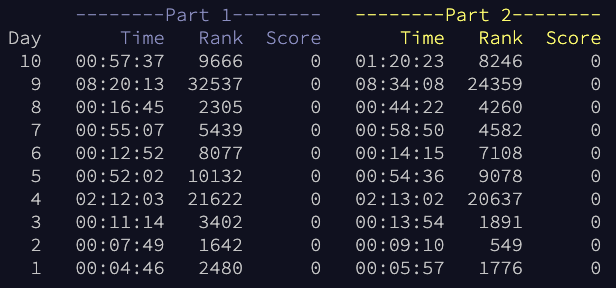
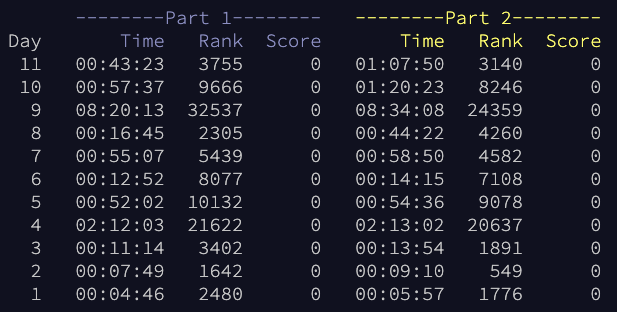
day 11

diff --git a/day11/part2.py b/day11/part2.py
@@ -1,0 +1,131 @@
+from __future__ import annotations
+
+import argparse
+import os.path
+
+import pytest
+
+import support
+import typing
+from functools import partial
+INPUT_TXT = os.path.join(os.path.dirname(__file__), 'input.txt')
+
+# monkeys = [
+#     {
+#         "items": [79, 98],
+#         "op": partial(lambda x: x * 29),
+#         "test": partial(lambda x: 2 if x % 23 == 0 else 3)
+#     },
+#     {
+#         "items": [54, 65, 75, 74],
+#         "op": partial(lambda x: x + 6),
+#         "test": partial(lambda x: 2 if x % 19 == 0 else 0)
+#     },
+#     {
+#         "items": [79, 60, 97],
+#         "op": partial(lambda x: x * x),
+#         "test": partial(lambda x: 1 if x % 13 == 0 else 3)
+#     },
+#     {
+#         "items": [74],
+#         "op": partial(lambda x: x + 3),
+#         "test": partial(lambda x: 0 if x % 17 == 0 else 1)
+#     },
+# ]
+
+import re
+from collections import deque
+def parse_monkey(monkey_string):
+    test_divis = int(re.search(r"[0-9]+", monkey_string[3])[0])
+    true_monkey = int(re.search(r"[0-9]+", monkey_string[4])[0])
+    false_monkey = int(re.search(r"[0-9]+", monkey_string[5])[0])
+    
+    return {
+        "items": [int(itm.strip()) for itm in monkey_string[1].split(':')[1].strip().split(',')],
+        "op": partial(lambda old: eval(monkey_string[2].split('=')[1].strip())),
+        "test": partial(lambda x: true_monkey if not x % test_divis else false_monkey),
+        "true": true_monkey,
+        "false": false_monkey,
+        "divisor": test_divis,
+    }
+import math
+def compute(s: str) -> int:
+    monkeys_unparsed = support.separate_by_newline(s.strip().split('\n'))
+    monkeys_parsed = [parse_monkey(monkey) for monkey in monkeys_unparsed]
+    monkey_touches = [0 for _ in range(len(monkeys_parsed))]
+    big_divisor = math.prod([m['divisor'] for m in monkeys_parsed])
+    # after each monkey inspects an item, but BEFORE it tests your worry, your worry 
+    for round in range(10000):
+        for i, monkey in enumerate(monkeys_parsed):
+            for itm in monkey['items']:
+                # print('inspecting itm', itm)
+                monkey_touches[i] += 1
+                # chg worry level
+                itm = monkey["op"](itm)
+                # print('adjusted worry', itm)
+                # itm = itm // 3
+                # print('divided by 3', itm)
+                # print('sending to:', monkey['test'](itm))
+                itm = itm % big_divisor
+                monkeys_parsed[monkey['test'](itm)]['items'].append(itm)
+            monkey['items'] = list()
+        # if not round % 100:
+            # print(round)
+    return sorted(monkey_touches, reverse=True)[0] * sorted(monkey_touches, reverse=True)[1]
+
+
+INPUT_S = '''\
+Monkey 0:
+  Starting items: 79, 98
+  Operation: new = old * 19
+  Test: divisible by 23
+    If true: throw to monkey 2
+    If false: throw to monkey 3
+
+Monkey 1:
+  Starting items: 54, 65, 75, 74
+  Operation: new = old + 6
+  Test: divisible by 19
+    If true: throw to monkey 2
+    If false: throw to monkey 0
+
+Monkey 2:
+  Starting items: 79, 60, 97
+  Operation: new = old * old
+  Test: divisible by 13
+    If true: throw to monkey 1
+    If false: throw to monkey 3
+
+Monkey 3:
+  Starting items: 74
+  Operation: new = old + 3
+  Test: divisible by 17
+    If true: throw to monkey 0
+    If false: throw to monkey 1
+'''
+EXPECTED = 2713310158
+
+
+@pytest.mark.parametrize(
+    ('input_s', 'expected'),
+    (
+        (INPUT_S, EXPECTED),
+    ),
+)
+def test(input_s: str, expected: int) -> None:
+    assert compute(input_s) == expected
+
+
+def main() -> int:
+    parser = argparse.ArgumentParser()
+    parser.add_argument('data_file', nargs='?', default=INPUT_TXT)
+    args = parser.parse_args()
+
+    with open(args.data_file) as f, support.timing():
+        print(compute(f.read()))
+
+    return 0
+
+
+if __name__ == '__main__':
+    raise SystemExit(main())

diff --git a/day11/part1.py b/day11/part1.py
@@ -1,0 +1,131 @@
+from __future__ import annotations
+
+import argparse
+import os.path
+
+import pytest
+
+import support
+import typing
+from functools import partial
+INPUT_TXT = os.path.join(os.path.dirname(__file__), 'input.txt')
+
+# monkeys = [
+#     {
+#         "items": [79, 98],
+#         "op": partial(lambda x: x * 29),
+#         "test": partial(lambda x: 2 if x % 23 == 0 else 3)
+#     },
+#     {
+#         "items": [54, 65, 75, 74],
+#         "op": partial(lambda x: x + 6),
+#         "test": partial(lambda x: 2 if x % 19 == 0 else 0)
+#     },
+#     {
+#         "items": [79, 60, 97],
+#         "op": partial(lambda x: x * x),
+#         "test": partial(lambda x: 1 if x % 13 == 0 else 3)
+#     },
+#     {
+#         "items": [74],
+#         "op": partial(lambda x: x + 3),
+#         "test": partial(lambda x: 0 if x % 17 == 0 else 1)
+#     },
+# ]
+
+import re
+from collections import deque
+def parse_monkey(monkey_string):
+    test_divis = int(re.search(r"[0-9]+", monkey_string[3])[0])
+    true_monkey = int(re.search(r"[0-9]+", monkey_string[4])[0])
+    false_monkey = int(re.search(r"[0-9]+", monkey_string[5])[0])
+    
+    return {
+        "items": [int(itm.strip()) for itm in monkey_string[1].split(':')[1].strip().split(',')],
+        "op": partial(lambda old: eval(monkey_string[2].split('=')[1].strip())),
+        "test": partial(lambda x: true_monkey if not x % test_divis else false_monkey),
+        "true": true_monkey,
+        "false": false_monkey,
+        "divisor": test_divis,
+    }
+import math
+def compute(s: str) -> int:
+    monkeys_unparsed = support.separate_by_newline(s.strip().split('\n'))
+    monkeys_parsed = [parse_monkey(monkey) for monkey in monkeys_unparsed]
+    monkey_touches = [0 for _ in range(len(monkeys_parsed))]
+    big_divisor = math.prod([m['divisor'] for m in monkeys_parsed])
+    # after each monkey inspects an item, but BEFORE it tests your worry, your worry 
+    for round in range(10000):
+        for i, monkey in enumerate(monkeys_parsed):
+            for itm in monkey['items']:
+                # print('inspecting itm', itm)
+                monkey_touches[i] += 1
+                # chg worry level
+                itm = monkey["op"](itm)
+                # print('adjusted worry', itm)
+                # itm = itm // 3
+                # print('divided by 3', itm)
+                # print('sending to:', monkey['test'](itm))
+                itm = itm % big_divisor
+                monkeys_parsed[monkey['test'](itm)]['items'].append(itm)
+            monkey['items'] = list()
+        if not round % 100:
+            print(round)
+    return sorted(monkey_touches, reverse=True)[0] * sorted(monkey_touches, reverse=True)[1]
+
+
+INPUT_S = '''\
+Monkey 0:
+  Starting items: 79, 98
+  Operation: new = old * 19
+  Test: divisible by 23
+    If true: throw to monkey 2
+    If false: throw to monkey 3
+
+Monkey 1:
+  Starting items: 54, 65, 75, 74
+  Operation: new = old + 6
+  Test: divisible by 19
+    If true: throw to monkey 2
+    If false: throw to monkey 0
+
+Monkey 2:
+  Starting items: 79, 60, 97
+  Operation: new = old * old
+  Test: divisible by 13
+    If true: throw to monkey 1
+    If false: throw to monkey 3
+
+Monkey 3:
+  Starting items: 74
+  Operation: new = old + 3
+  Test: divisible by 17
+    If true: throw to monkey 0
+    If false: throw to monkey 1
+'''
+EXPECTED = 10605
+
+
+@pytest.mark.parametrize(
+    ('input_s', 'expected'),
+    (
+        (INPUT_S, EXPECTED),
+    ),
+)
+def test(input_s: str, expected: int) -> None:
+    assert compute(input_s) == expected
+
+
+def main() -> int:
+    parser = argparse.ArgumentParser()
+    parser.add_argument('data_file', nargs='?', default=INPUT_TXT)
+    args = parser.parse_args()
+
+    with open(args.data_file) as f, support.timing():
+        print(compute(f.read()))
+
+    return 0
+
+
+if __name__ == '__main__':
+    raise SystemExit(main())

diff --git a/day10/part1.py b/day10/part1.py
@@ -58,6 +58,28 @@ def compute(s: str) -> int:
     return sum(signal_strengths)
 
 
+# from chatGPT
+def update_register_and_signal(instructions):
+  # initialize X register to 1 and signal strength to 0
+  x = 1
+  signal_strength = 0
+
+  # simulate the execution of the instructions
+  for i in range(len(instructions)):
+    # if the instruction is "noop", do nothing
+    if instructions[i] == "noop":
+      continue
+    # if the instruction is "addx", update the value of X
+    elif instructions[i].startswith("addx"):
+      x += int(instructions[i].split()[1])
+
+    # update the signal strength for every 20th, 60th, 100th, 140th, 180th, and 220th cycle
+    if (i + 1) % 40 in [20, 60, 100, 140, 180, 220]:
+      signal_strength += (i + 1) * x
+
+  return x, signal_strength
+
+
 INPUT_S = '''\
 addx 15
 addx -11
@@ -216,7 +238,9 @@ EXPECTED = 13140
     ),
 )
 def test(input_s: str, expected: int) -> None:
-    assert compute(input_s) == expected
+    x, sig = update_register_and_signal(input_s.strip().splitlines())
+    assert sig == expected
+    # assert compute(input_s) == expected
 
 
 def main() -> int:

diff --git a/day10/part2.py b/day10/part2.py
@@ -57,7 +57,6 @@ def compute(s: str) -> int:
                 CRT += "\n"
                 row += 1
             column = (cycle - 1) % 40
-            print('checking column against sprites', column, sprite_loc)
             CRT += "#" if any([column == s for s in sprite_loc]) else "."
             register_value += v
             # move the sprites
